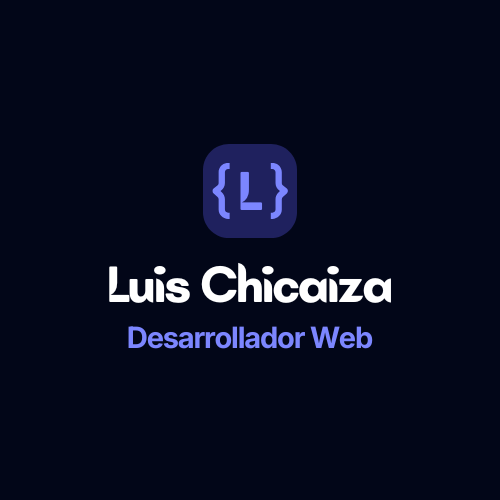
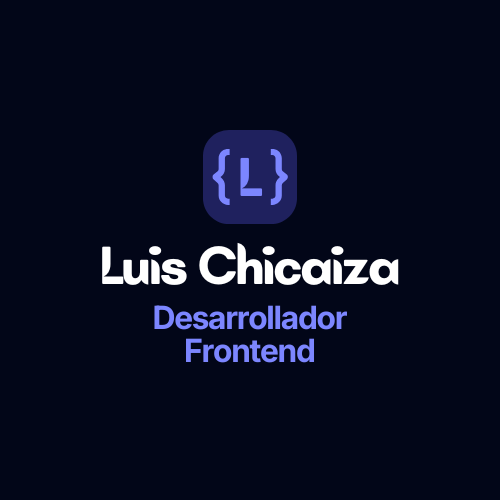
feat(seo): actualizar meta descripción e imagen OG

Changed region(s): [[0.18, 0.24, 0.81, 0.75]]

diff --git a/index.html b/index.html
@@ -3,25 +3,25 @@
   <head>
     <meta charset="UTF-8" />
     <meta name="viewport" content="width=device-width, initial-scale=1.0" />
-    <title>Luis Chicaiza | Desarrollador Web</title>
+    <title>Luis Chicaiza | Desarrollador Frontend</title>
     <!--Preload images-->
     <link rel="preload" as="image" href="/assets/foto-perfil-luis-600.webp" media="(max-width: 600px)" fetchpriority="high">
     <link rel="preload" as="image" href="/assets/foto-perfil-luis-1200.webp" media="(min-width: 601px)" fetchpriority="high">
     
-    <meta name="description" content="Portafolio de Luis Chicaiza. Desarrollador Web especializado en Frontend y estudiante de Ingeniería Informática. Experiencia con React, PHP, SQL y Tailwind CSS.">
+    <meta name="description" content="Portafolio de Luis Chicaiza. Desarrollador frontend con enfoque en React. Portfolio con proyectos reales, interfaces dinámicas y aplicaciones web modernas.">
     <!-- Meta Tags OG-->
     <meta property="og:site_name" content="Luis Chicaiza | Desarrollador Web">
     <meta property="og:url" content="https://luischicaiza.vercel.app">
     <meta property="og:title" content="Luis Chicaiza | Desarrollador Web">
     <meta property="og:type" content="website">
-    <meta property="og:description" content="Portafolio de Luis Chicaiza. Desarrollador Web especializado en Frontend y estudiante de Ingeniería Informática. Experiencia con React, PHP, SQL y Tailwind CSS.">
+    <meta property="og:description" content="Portafolio de Luis Chicaiza. Desarrollador frontend con enfoque en React. Portfolio con proyectos reales, interfaces dinámicas y aplicaciones web modernas.">
     <meta property="og:image" content="https://luischicaiza.vercel.app/assets/luis-chicaiza-og.png">
     <!-- Twitter Meta Tags OG-->
     <meta name="twitter:card" content="summary_large_image">
     <meta property="twitter:domain" content="luischicaizadev.github.io">
     <meta property="twitter:url" content="https://luischicaiza.vercel.app">
     <meta name="twitter:title" content="Luis Chicaiza | Desarrollador Web">
-    <meta name="twitter:description" content="Portafolio de Luis Chicaiza. Desarrollador Web especializado en Frontend y estudiante de Ingeniería Informática. Experiencia con React, PHP, SQL y Tailwind CSS.">
+    <meta name="twitter:description" content="Portafolio de Luis Chicaiza. Desarrollador frontend con enfoque en React. Portfolio con proyectos reales, interfaces dinámicas y aplicaciones web modernas.">
     <meta name="twitter:image" content="https://luischicaiza.vercel.app/assets/luis-chicaiza-og.png">
     <!--Favicon-->
     <link rel="icon" type="image/png" href="/assets/favicon/favicon-96x96.png" sizes="96x96" />
